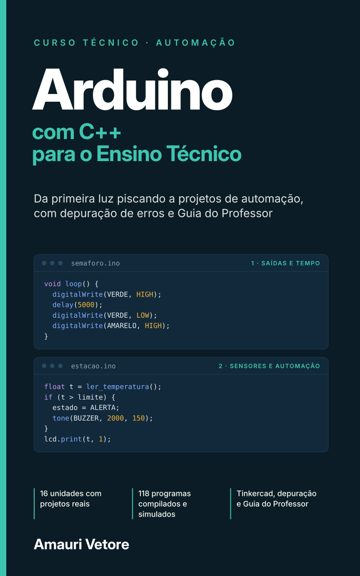
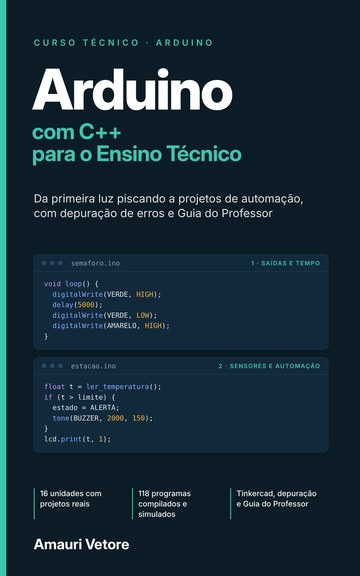
Arduino à venda, livro de IA e capas no padrão Curso técnico
Claude-Session: https://claude.ai/code/session_01TUBCuAH1UYuDfwgebocmH9

Changed region(s): [[0.4583, 0.0625, 0.6417, 0.0938]]

diff --git a/index.html b/index.html
@@ -4,9 +4,9 @@
 <meta charset="utf-8">
 <meta name="viewport" content="width=device-width, initial-scale=1">
 <title>Amauri Vetore · Livros de programação para o ensino técnico</title>
-<meta name="description" content="Professor e autor de livros de programação para o ensino técnico: Python, C++, Java, SQL, Automação com IA e Arduino. Código testado, seção Depurando e Guia do Professor.">
+<meta name="description" content="Professor e autor de livros de programação para o ensino técnico: Python, C++, Java, SQL, Inteligência Artificial, Automação com IA e Arduino. Código testado, seção Depurando e Guia do Professor.">
 <meta property="og:title" content="Amauri Vetore · Livros de programação para o ensino técnico">
-<meta property="og:description" content="Python, C++, Java, SQL, Automação com IA e Arduino. Código testado, seção Depurando e Guia do Professor.">
+<meta property="og:description" content="Python, C++, Java, SQL, Inteligência Artificial, Automação com IA e Arduino. Código testado, seção Depurando e Guia do Professor.">
 <meta property="og:image" content="https://vetore.github.io/capas/cpp.jpg">
 <link rel="stylesheet" href="https://fonts.googleapis.com/css2?family=Space+Grotesk:wght@500;700&family=Inter:wght@400;500;600&family=JetBrains+Mono:wght@500&display=swap">
 <style>
@@ -100,11 +100,12 @@ footer a{color:var(--band-fg)}
   <p class="sub">eBooks Kindle na Amazon Brasil. Assinantes do Kindle Unlimited leem sem custo adicional.</p>
   <div class="grid">
     <article class="card"><img src="capas/cpp.jpg" alt="Capa do livro Curso de C++ para o Ensino Técnico" loading="lazy"><div class="in"><h3>Curso de C++ para o Ensino Técnico</h3><p>16 unidades, da lógica de programação à orientação a objetos.</p><a class="buy" href="https://www.amazon.com.br/dp/B0HRLM39XC" target="_blank" rel="noopener">Amazon · R$ 19,90</a></div></article>
-    <article class="card"><img src="capas/java.jpg" alt="Capa do livro Curso de Java para o Ensino Técnico" loading="lazy"><div class="in"><h3>Curso de Java para o Ensino Técnico</h3><p>Lançamento. 16 unidades, com exceções, coleções e projeto integrador.</p><a class="buy" href="https://www.amazon.com.br/dp/B0H9X1F43P" target="_blank" rel="noopener">Amazon · R$ 19,90</a></div></article>
-    <article class="card"><img src="capas/sql.jpg" alt="Capa do livro Banco de Dados com SQL para o Ensino Técnico" loading="lazy"><div class="in"><h3>Banco de Dados com SQL para o Ensino Técnico</h3><p>Lançamento. Da modelagem às transações, com MySQL 8.</p><a class="buy" href="https://www.amazon.com.br/dp/B0H8DTZ193" target="_blank" rel="noopener">Amazon · R$ 19,90</a></div></article>
+    <article class="card"><img src="capas/java.jpg" alt="Capa do livro Curso de Java para o Ensino Técnico" loading="lazy"><div class="in"><h3>Curso de Java para o Ensino Técnico</h3><p>16 unidades, com exceções, coleções e projeto integrador.</p><a class="buy" href="https://www.amazon.com.br/dp/B0H9X1F43P" target="_blank" rel="noopener">Amazon · R$ 19,90</a></div></article>
+    <article class="card"><img src="capas/sql.jpg" alt="Capa do livro Banco de Dados com SQL para o Ensino Técnico" loading="lazy"><div class="in"><h3>Banco de Dados com SQL para o Ensino Técnico</h3><p>Da modelagem às transações, com MySQL 8.</p><a class="buy" href="https://www.amazon.com.br/dp/B0H8DTZ193" target="_blank" rel="noopener">Amazon · R$ 19,90</a></div></article>
     <article class="card"><div class="ph"><small>Curso técnico</small><b>Python</b><span>Do básico ao avançado</span></div><div class="in"><h3>Curso de Python</h3><p>14 unidades para o ensino médio técnico, com projetos e gabarito.</p><a class="buy" href="https://www.amazon.com.br/dp/B0GX2WT9F8" target="_blank" rel="noopener">Amazon · R$ 12,00</a></div></article>
     <article class="card"><img src="capas/automacao.jpg" alt="Capa do livro Automação com Python e Inteligência Artificial" loading="lazy"><div class="in"><h3>Automação com Python e Inteligência Artificial</h3><p>Planilhas, PDF, e-mail, web, SQL e agentes de IA na prática.</p><a class="buy" href="https://www.amazon.com.br/dp/B0HQ53LGSW" target="_blank" rel="noopener">Amazon · R$ 19,90</a></div></article>
-    <article class="card"><img src="capas/arduino.jpg" alt="Capa do livro Arduino com C++ para o Ensino Técnico" loading="lazy"><div class="in"><h3>Arduino com C++ para o Ensino Técnico</h3><p>Do LED piscando a projetos de automação, simulados no Tinkercad.</p><div class="soon">Em breve</div></div></article>
+    <article class="card"><img src="capas/ia.jpg" alt="Capa do livro Inteligência Artificial com Python para o Ensino Técnico" loading="lazy"><div class="in"><h3>Inteligência Artificial com Python para o Ensino Técnico</h3><p>Do primeiro modelo ao projeto integrador, com dados da escola.</p><a class="buy" href="https://www.amazon.com.br/dp/B0HSLYKF7W" target="_blank" rel="noopener">Amazon · R$ 19,90</a></div></article>
+    <article class="card"><img src="capas/arduino.jpg" alt="Capa do livro Arduino com C++ para o Ensino Técnico" loading="lazy"><div class="in"><h3>Arduino com C++ para o Ensino Técnico</h3><p>Do LED piscando a projetos de automação, simulados no Tinkercad.</p><a class="buy" href="https://www.amazon.com.br/dp/B0HSLZF5Y1" target="_blank" rel="noopener">Amazon · R$ 19,90</a></div></article>
   </div>
   <h2 style="margin-top:48px;font-size:22px">In English</h2>
   <p class="sub">Kindle eBooks on Amazon.com.</p>
